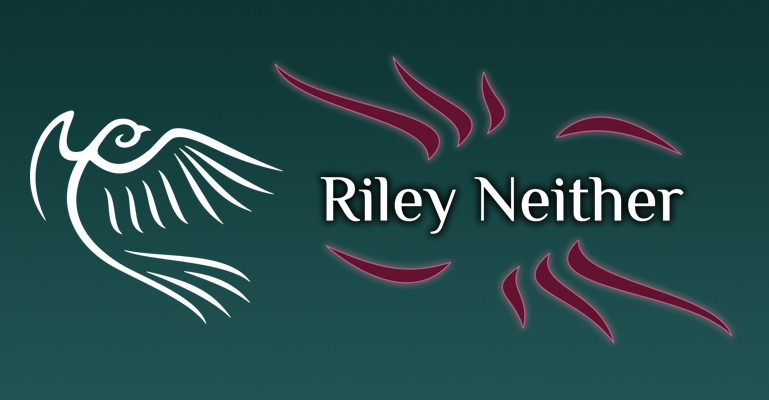
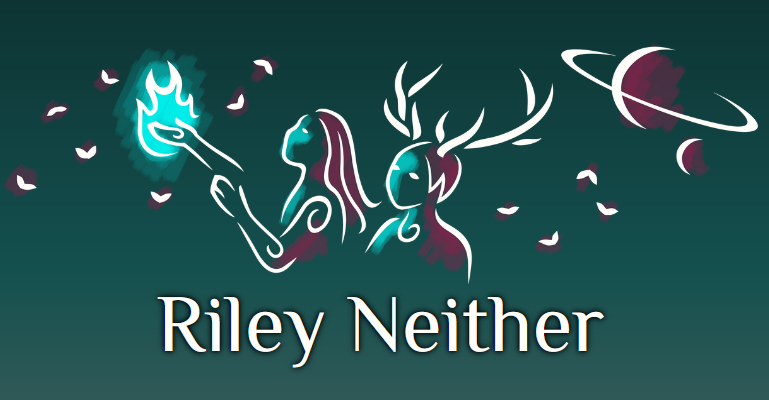
new header art, updated fiction page, Updates > Newest Stories, other misc updates and edits

Changed region(s): [[0.0, 0.09, 0.9987, 0.93], [0.9363, 0.24, 0.9675, 0.27], [0.5618, 0.15, 0.593, 0.18]]

diff --git a/fiction.html b/fiction.html
@@ -19,7 +19,7 @@
     <div id="bgcolor"></div>
     <div class="maincolumn">
       <div id="navbar">
-        <a id="navhome" href="https://www.rileyneither.com"><div id="homelink"><img id="headerbird" src="lib/imgs/rn-bird.png" alt="a stylized white bird"><span>Riley Neither</span></div></a>
+        <a id="navhome" href="https://www.rileyneither.com"><div id="homelink"><img id="headerdrawing" src="lib/imgs/hand-with-fire.png" alt="a stylized hand holding bright blue fire"><span>Riley Neither</span></div></a>
         <div id=navbardiv>
           <a id="navwip" href="fiction.html"><div class="navitem" id="activelink"><span>Fiction</span><div class="active-frame" id="active-top"></div><div class="active-frame" id="active-bottom"></div></div></a>
           <a id="navart" href="art.html"><div class="navitem"><span>Art</span></div></a>
@@ -31,34 +31,47 @@
       <h1 class="hidden">Riley Neither - Fiction</h1>
 
       <div class="textbox">
-        <p class="initialp" tabindex="0">From six-digit word-count novels through novellas, short stories, and all the way down to flash fiction, I write it all.  Some of my short fiction has been rejected by the most prestigious SFF magazines, and a few stories have even been accepted!  I'll link to each as it comes out, and in the meantime, you can check out some of my longer works-in-progress below.</p>
-        <p><a class="smalllink" href="https://www.abyssapexzine.com/2025/02/something-lost/" target="_blank">Something Lost</a> - in Abyss & Apex, Issue 94</p>
-        <p><a class="smalllink" href="https://www.castofwonders.org/2022/09/cast-of-wonders-506-little-wonders-35-memories-of-home/#more-8783" target="_blank">A Portal</a> - in Cast of Wonders, Episode 506 (second half)</p>
-        <p><a class="smalllink" target="_blank" href="https://www.beneath-ceaseless-skies.com/stories/imagine-a-thief-with-golden-fire-in-their-voice/">Imagine a Thief with Golden Fire in Their Voice</a> - in Beneath Ceaseless Skies, Issue 363</p>
-        <p class="finalp"><a class="smalllink" target="_blank" href="https://firesidefiction.com/give-my-body-to-the-moths">Give My Body to the Moths</a> - in Fireside, Issue 101</p>
+        <p class="initialp finalp" tabindex="0">From six-digit word-count novels through novellas, short stories, and all the way down to flash fiction, I write it all.  Some of my short fiction has been rejected by the most prestigious SFF magazines, and a few stories have even been accepted!</p>
+      </div>
+
+      <div class="textbox">
+        <h2 tabindex="0">Short Stories</h2>
+        <h3 class="finalp initialh3"><a class="smalllink" href="https://www.abyssapexzine.com/2025/02/something-lost/" target="_blank">Something Lost</a></h3>
+        <p><em>Abyss & Apex</em>, Issue 94, ~1,600 words</p>
+        <div class="storydiv">
+          <div class="storyillustration"><img class="storypic" src="lib/art/story-portal.jpg" alt="a drawing of a black arch in front of a night sky with a purple galaxy streaking from lower left to upper right"></div>
+          <h3 class="finalp"><a class="smalllink" href="https://www.castofwonders.org/2022/09/cast-of-wonders-506-little-wonders-35-memories-of-home/#more-8783" target="_blank">A Portal</a></h3>
+          <p><em>Cast of Wonders</em>, Episode 506 (second half), ~1,300 words</p>
+        </div>
+        <div class="storydiv">
+          <div class="storyillustration"><img class="storypic" src="lib/art/gold-protag.png" alt="a drawing of an androgynous Asian person walking forward with stars around their outspread hands"></div>
+          <h3 class="finalp"><a class="smalllink" target="_blank" href="https://www.beneath-ceaseless-skies.com/stories/imagine-a-thief-with-golden-fire-in-their-voice/">Imagine a Thief with Golden Fire in Their Voice</a></h3>
+          <p><em>Beneath Ceaseless Skies</em>, Issue 363, ~5,800 words</p>
+        </div>
+        <h3 class="finalp"><a class="smalllink" target="_blank" href="https://firesidefiction.com/give-my-body-to-the-moths">Give My Body to the Moths</a></h3>
+        <p class="finalp"><em>Fireside</em>, Issue 101, ~900 words</p>
       </div>
 
       <div class="textbox">
         <div class="illustration"><img class="WIPpic" src="lib/imgs/fiction-dust-magic.png" alt="a drawing of a person made of glowing gold threads, looking up and unravelling"></div>
-        <h2 tabindex="0">Dust &amp; Lightning</h2>
-        <p>When a storm of wild magic hits Light Shatters, the city—already like no other, a precarious balance of innovation and tradition where there is no barrier between the physical and the spiritual—becomes the center of a world-changing disaster.  From the infamous inventor who just came into town to the Bear Clan girl whose family runs a riverside restaurant, disparate and unlikely people are pulled into much bigger things than they're prepared to handle.  The magic their world is built on is dying, and only when their paths (and hearts) intersect do they begin to see a way forward.</p>
-        <p class="finalp">A science fantasy duology with a dash of queer romance, <em>Sky of Dust</em> and <em>World of Lightning</em> follow four characters dealing with personal traumas at the same time that they're forced to face up to some uncomfortable truths about their world.  The story deals heavily with family and community, trauma and healing, tradition and growth, with a queer and Haudenosaunee-coded cast of inventors, healers, and ordinary community members.  The first book is finished and just needs a Haudenosaunee sensitivity reader, and the second is well underway.</p>
+        <h2 tabindex="0">WIP: Dust &amp; Lightning</h2>
+        <p>Light Shatters is already a city like no other, a precarious balance of innovation and tradition where there is no barrier between the physical and the spiritual.  When a storm of wild magic hits, it becomes the center of a world-changing disaster.  From the infamous inventor who just came into town to a healer with heavy secrets and a Bear Clan girl whose family runs a riverside restaurant, disparate and unlikely people are pulled into much bigger things than they're prepared to handle.  The magic their world is built on is dying, and only when their paths intersect do they begin to see a way forward.</p>
+        <p class="finalp">A science fantasy duology with a dash of queer romance, <em>Sky of Dust</em> and <em>World of Lightning</em> follow four characters dealing with personal traumas at the same time that they're forced to face up to some uncomfortable truths about their world.  The story deals heavily with family and community, trauma and healing, and tradition and growth, with a queer and Haudenosaunee-coded cast.</p>
       </div>
 
       <div class="textbox">
         <div class="illustration"><img class="WIPpic" src="lib/imgs/fiction-jaksa.png" alt="a drawing of Jaksa, an older Indian woman with curly hair, a hooked nose, and a prosthetic left arm, wearing a green dupatta over one shoulder and holding a pistol, glaring at the viewer"></div>
-        <h2 tabindex="0">Sync</h2>
-        <p>This stand-alone sci-fi novel still doesn't have a proper title ("Sync" is just a placeholder), but here's the back-cover blurb:</p>
-        <p>Sinhi and Jaksa grew up together in the Network Republic of Shukra, the most powerful state on un-terraformed Venus and one with dark stains in its not-so-distant history.  When they each realized the evils their home was responsible for, they reacted very differently: Sinhi devoted zimself to fixing the Network from within, while Jaksa devoted herself to defending the outliers.  When they cross paths unexpectedly for the first time in decades, it isn't clear whether they should be allies or enemies, and with ground-breaking medical technology, a brewing uprising, and the torturous practices of the Network's military all caught in the balance, there's much more at stake than their last chance at family.</p>
-        <p class="finalp">I've written about two-thirds of it so far.  It's full of queer characters in an ethnically and religiously diverse setting, and along with questions of reform vs. abolition, it also deals with trauma and recovery, healthcare and disability, and of course, family.</p>
+        <h2 tabindex="0">WIP: Sync</h2>
+        <p>This stand-alone sci-fi novel is full of queer characters in an ethnically and religiously diverse setting.  It still doesn't have a proper title ("Sync" is just a placeholder), but here's the back-cover blurb:</p>
+        <p class="finalp">Sinhi and Jaksa grew up together in the Network Republic of Shukra, the most powerful state on un-terraformed Venus and one with dark stains in its not-so-distant history.  When they each realized the evils their home was responsible for, they reacted very differently: Sinhi devoted zimself to fixing the Network from within, while Jaksa devoted herself to defending the outliers.  When they cross paths unexpectedly for the first time in decades, it isn't clear whether they ought to be allies or enemies, and with ground-breaking medical technology, a brewing uprising, and the torturous practices of the Network's military all caught in the balance, there's much more at stake than their last chance at family.</p>
       </div>
 
       <div class="textbox">
-        <h2>Gods of Bloodied Earth</h2>
-        <p>This is a trio of novellas about the gods of a colonized people, who are loosely coded after some Central American cultures with the significant exception that their homeland is also inhabited by late-Cretaceous dinosaurs, some of which they've domesticated.  The novellas aren't a series, exactly, since each one focuses on different characters and plots and there's substantial time between them, but there is a definite sequence to them.  The first one is finished, and I'm just getting started on the second; the third is still in very early planning.</p>
+        <h2>WIP: Gods of Bloodied Earth</h2>
+        <p>This is a trio of novellas about the gods of a colonized people.  The setting is largely inspired by Central America, with the significant exception that it's also inhabited by late Cretaceous dinosaurs, some of which have been domesticated.  The novellas aren't a series, exactly, since each one focuses on different characters and plots and there's substantial time between them, but there is a definite sequence to them.</p>
         <p class="finalp"><em>What Springs from Bloodied Earth</em></p>
         <p>After a brutal invasion, the only gods left to the Etliruset people are gods of death, but they are determined not to let their people die.</p>
-        <p class="finalp">The next two will be titled <em>What Blossoms from Steel Seeds</em> and <em>What Cannot Be Made by Gods</em>.  I won't say too much about them, lest I spoil the first one!</p>
+        <p class="finalp">The next two will be titled <em>What Blossoms from Steel Seeds</em> and <em>What Rises Like the Sun Undying</em>.  I won't say too much about them, lest I spoil the first one!</p>
       </div>
 
       <div id="bottombar">

diff --git a/index.html b/index.html
@@ -20,8 +20,9 @@
     <div id="bgcolor"></div>
     <div class="maincolumn">
       <div id="namebox">
-        <img id="twobirds" src="lib/imgs/rn-name-twobirds.png" alt="the name Riley Neither with purple rays radiating out and stylized white birds on either side">
-        <img id="onebird" src="lib/imgs/rn-name-onebird.png" alt="the name Riley Neither with purple rays radiating out and a stylized white bird on the left">
+        <img id="titleimage" src="lib/imgs/title-image.png" alt="A stylized illustration with curling white lines and paintbrush strokes of cyan and purple shading.  On the left is a person with curly hair and large open wings.  Right of center, another person extends one hand, and that hand holds a cyan flame.  Small moths flutter around the flame.  Further right is a third person with antlers.  On the far right are two crescent moons.  The larger moon has a ring around it.">
+        <img id="titleimagehalf" src="lib/imgs/title-image-half.png" alt="A stylized illustration with curling white lines and paintbrush strokes of cyan and purple shading.  On the left is a person extending one hand, and that hand holds a cyan flame.  Small moths flutter around the flame.  Center is a person with antlers.  On the right are two crescent moons.  The larger moon has a ring around it.">
+        <div id="titletext"><h1  tabindex="0">Riley Neither</h1></div>
       </div>
       <div class="introbox-frame"></div>
       <div id="introbox">
@@ -49,17 +50,15 @@
       </div>
 
       <div class="textbox">
-        <h2 tabindex="0">Updates</h2>
-        <h3 class="finalp">New Story: Something Lost</h3>
-        <p>My short story "Something Lost," a quick fantasy piece about family, just came out in Abyss & Apex!  Read it <a href="https://www.abyssapexzine.com/2025/02/something-lost/">here</a>.</p>
-        <h3 class="finalp">Website Renovation Underway</h3>
-        <p>I'm working on a bit of renovation for this site in both design and content, including improved accessibility features.  Updates should be complete and live by the end of April!</p>
+        <h2 tabindex="0">Newest Stories</h2>
+        <h3 class="finalp initialh3">Something Lost</h3>
+        <p class="finalp"><em>Abyss & Apex</em> just published my short story <a class="smalllink" href="https://www.abyssapexzine.com/2025/02/something-lost/">Something Lost</a>, a quick little fantasy tale about family.</p>
       </div>
 
       <div class="textbox">
-        <h2 tabindex="0">About me</h2>
+        <h2 tabindex="0">About</h2>
         <p>I'm non-binary, asexual, neurodivergent, and anti-fascist.  I'm also a white settler in the U.S. and have lived most of my life on Gayogo&#817;ho&#769;:n&#491;&#704; (Cayuga) and Umo<sup>n</sup>ho<sup>n</sup> (Omaha) & Otoe-Missouria land.  I say so because these things influence my writing.  I believe in the value of representation for the disempowered, and I believe in the power of fiction to move people and ultimately move societies.  So I tend to write stories with a lot of queer, PoC, neurodiverse characters, exploring themes of identity and family, survival and recovery, resistance, justice, and self-determination.  And I like to wrap it all together with magic and majesty, physics and futures, with that speculative sense of wonder and vastness that reminds us we're all part of something bigger than ourselves.</p>
-        <p>After earning a PhD in linguistics, I took up copy editing for an educational non-profit, and I recently joined that non-profit's research team.  When I'm not writing queer fantasy and sci-fi or occasionally venturing into other genres, I also like to make art and conlangs (constructed languages), read books, ride bikes, sing in a queer chorus, and teach myself web development.  (Like the site?  Why thanks, I made it myself!)</p>
+        <p>After earning a PhD in linguistics, I took up copy editing for an educational non-profit, and I recently joined that non-profit's research team.  When I'm not writing queer fantasy and sci-fi or occasionally venturing into other genres, I also make art and conlangs (constructed languages), read books, ride bikes, and sing in a queer chorus.</p>
         <h3>Find me around</h3>
         <p>My particular neurodivergences make social media difficult for me, but I try to check in there periodically.  A better way to reach me is by email, riley.neither<span class="empty">@</span>gmail.com.</p>
         <div id="smgrid">

diff --git a/bookrecs.html b/bookrecs.html
@@ -19,7 +19,7 @@
     <div id="bgcolor"></div>
     <div class="maincolumn">
       <div id="navbar">
-        <a id="navhome" href="https://www.rileyneither.com"><div id="homelink"><img id="headerbird" src="lib/imgs/rn-bird.png" alt="a stylized white bird"><span>Riley Neither</span></div></a>
+        <a id="navhome" href="https://www.rileyneither.com"><div id="homelink"><img id="headerdrawing" src="lib/imgs/hand-with-fire.png" alt="a stylized hand holding bright blue fire"><span>Riley Neither</span></div></a>
         <div id=navbardiv>
           <a id="navwip" href="fiction.html"><div class="navitem"><span>Fiction</span></div></a>
           <a id="navart" href="art.html"><div class="navitem"><span>Art</span></div></a>
@@ -48,7 +48,7 @@
         <p>These are books two and three of a series about a tyrannical space empire.  One of the main characters in these two books is a trans man, and several secondary characters are also trans or non-binary.  They weren't present in the first book (which was limited to a context that, in-world, is more transphobic than most), and their transness doesn't play much of a role in the plot; they just exist, because why wouldn't trans people exist in space?  Unlike the other late-in-series books I mention here, I don't recommend picking up these without first reading the first in the series (<em>Ninefox Gambit</em>).</p>
         <h3 class="finalp"><span class="unbold">&#9733</span> <em>Sordidez</em> by E.G. Conde&#769;</h3>
         <p>This book has an unusual structure and different parts of it really have different protagonists, but the beginning and end focus on a Puerto Rican trans man trying to balance different aspects of his self-identity in the midst of near-future climate crises and Indigenous revival.</p>
-        <h3 class="finalp"><span class="unbold">&#9733</span> <em>Hell Followed With Us</em> by Andrew Joseph White</h3>
+        <h3 class="finalp"><span class="unbold">&#9733</span> <em>Hell Followed With Us</em> by Andrew Joseph White <span class="unbold">(trans author!)</span></h3>
         <p>YA fantasy horror with a trans protagonist and an autistic love interest, tackling themes of religious and familial trauma.</p>
         <h3 class="finalp"><span class="unbold">&#9733</span> <em>Full Fathom Five</em> by Max Gladstone</h3>
         <p>This one's got a trans woman co-protagonist, and it's probably one of the best examples I've found of a trans character written by a cis author.  Her transness isn't part of the story (which is about a colonized island's dying artificial gods), but it is a vibrant part of her character, without being all that she is.  There were a few (non-queer-related) things about the book that didn't sit well with me, but overall, I definitely enjoyed it.  It's one of a set of stand-alone novels that all take place in the same world (the Craft Sequence), and it works well with the others or on its own.  The same character is also a co-protagonist in <em>The Ruin of Angels</em>, but in that one, the fact that she's trans is more "blink and you'll miss it;" that one also definitely benefits from reading some of the other Craft books first.</p>
@@ -63,7 +63,7 @@
       </div>
 
       <div class="textbox">
-        <div class="illustration"><img class="recpic" src="lib/imgs/recs-trans-books.png" alt="a drawing of a stack of books, in the colors of a trans pride flag"></div>
+        <div class="illustration"><img class="recpic" src="lib/imgs/recs-enby-books.png" alt="a drawing of a stack of books, in the colors of a nonbinary pride flag"></div>
         <h2 tabindex="0">SFF with Trans &amp; Non-Binary Leads in Speculative Cultures</h2>
         <p>These are stories with characters who, if they existed in our world, would almost certainly be trans and/or non-binary, but who exist in settings with very different social/cultural takes on gender than ours, in ways that influence how the characters understand themselves and relate to gender.  It might mean they're not quite as relateable as the characters in the books above, but they're still a refreshing divergence from cisnormative protagonists, and the exploration of gender in the world-building is wonderful in its own right.</p>
         <h3 class="finalp"><span class="unbold">&#9733</span> The <em>Tensorate</em> books by Neon Yang <span class="unbold">(non-binary author!)</span></h3>

diff --git a/lib/stylesheets/front.css b/lib/stylesheets/front.css
@@ -1,27 +1,37 @@
 #namebox {
   grid-column: 2/3;
-  justify-self: center;
+  justify-self: left;
   width: 100%;
   height: 200px;
   margin: 24px 0 14px 0;
   position: relative;
   display: grid;
-  overflow-x: hidden;
-  color: white;
-  font-size: 2.6rem;
-  font-family: var(--headfam,'Noto Sans');
-  text-shadow: 0 0 5px black, 0 0 3px black;
+  /*overflow-x: hidden;*/
 }
 #namebox img {
   position: absolute;
-  top: 0;
-  max-width: 100%;
+  max-width: 90vw;
   max-height: 90%;
   justify-self: center;
   top: 50%;
   -ms-transform: translateY(-50%);
   transform: translateY(-50%);
-  overflow-x: hidden;
+  /*overflow-x: hidden;*/
+}
+#titleimage {
+  min-width: 960px;
+}
+#titleimagehalf {
+  display: none;
+}
+#titletext {
+  position: absolute;
+  bottom: 2%;
+  justify-self: center;
+  color: white;
+  font-size: 3.4rem;
+  font-family: var(--headfam,'Noto Sans');
+  text-shadow: 0 0 5px black, 0 0 3px black;
 }
 #onebird {
   display: none;
@@ -107,17 +117,27 @@
     grid-template-columns: auto auto;
     grid-row-gap: 20px;
   }
-}
-@media screen and (max-width: 600px) {
-  #twobirds {
+  #namebox {
+    height: 35vw;
+    margin-bottom: 40px;
+  }
+  #titletext {
+    bottom: -30px;
+  }
+  #titleimage {
     display: none;
   }
-  #onebird {
+  #titleimagehalf {
     display: block;
   }
 }
-@media screen and (max-width: 400px) {
+@media screen and (max-width: 450px) {
+  #titletext {
+    font-size: 2.8rem;
+  }
+}
+/* @media screen and (max-width: 400px) {
   #namebox img {
     max-width: 90%;
   }
-}
+} */

diff --git a/art.html b/art.html
@@ -20,7 +20,7 @@
     <div id="bgcolor"></div>
     <div class="maincolumn">
       <div id="navbar">
-        <a id="navhome" href="https://www.rileyneither.com"><div id="homelink"><img id="headerbird" src="lib/imgs/rn-bird.png" alt="a stylized white bird"><span>Riley Neither</span></div></a>
+        <a id="navhome" href="https://www.rileyneither.com"><div id="homelink"><img id="headerdrawing" src="lib/imgs/hand-with-fire.png" alt="a stylized hand holding bright blue fire"><span>Riley Neither</span></div></a>
         <div id=navbardiv>
           <a id="navwip" href="fiction.html"><div class="navitem"><span>Fiction</span></div></a>
           <a id="navart" href="art.html"><div class="navitem" id="activelink"><span>Art</span><div class="active-frame" id="active-top"></div><div class="active-frame" id="active-bottom"></div></div></a>

diff --git a/lib/stylesheets/main.css b/lib/stylesheets/main.css
@@ -50,6 +50,7 @@ body {
   --headfam: 'El Messiri';
   grid-template-columns: 1fr 86% 1fr;
   grid-template-rows: 1fr;
+  overflow-x: hidden;
   scrollbar-color: var(--gray3,gray) var(--gray2,lightgray);
 }
 #bgcolor {
@@ -147,10 +148,10 @@ body {
 #homelink span {
   margin-top: 2px;
 }
-#headerbird {
+#headerdrawing {
   position: relative;
+  top: -8px;
   height: 60px;
-  margin-right: 2px;
   left: -4px;
   transition: .1s;
 }
@@ -304,6 +305,20 @@ th, td {
 }
 .recpic {
   width: 100px;
+}
+.storydiv {
+  display: inline-block;
+  align-content: middle;
+  width: 100%;
+  margin: 5px 0px 3px 0px;
+}
+.storyillustration {
+  clear: left;
+  float: left;
+  margin-right: 15px;
+}
+.storypic {
+  width: 150px;
 }
 
 /*conlang name generators*/

diff --git a/conlangs.html b/conlangs.html
@@ -19,7 +19,7 @@
     <div id="bgcolor"></div>
     <div class="maincolumn">
       <div id="navbar">
-        <a id="navhome" href="https://www.rileyneither.com"><div id="homelink"><img id="headerbird" src="lib/imgs/rn-bird.png" alt="a stylized white bird"><span>Riley Neither</span></div></a>
+        <a id="navhome" href="https://www.rileyneither.com"><div id="homelink"><img id="headerdrawing" src="lib/imgs/hand-with-fire.png" alt="a stylized hand holding bright blue fire"><span>Riley Neither</span></div></a>
         <div id=navbardiv>
           <a id="navwip" href="fiction.html"><div class="navitem"><span>Fiction</span></div></a>
           <a id="navart" href="art.html"><div class="navitem"><span>Art</span></div></a>
